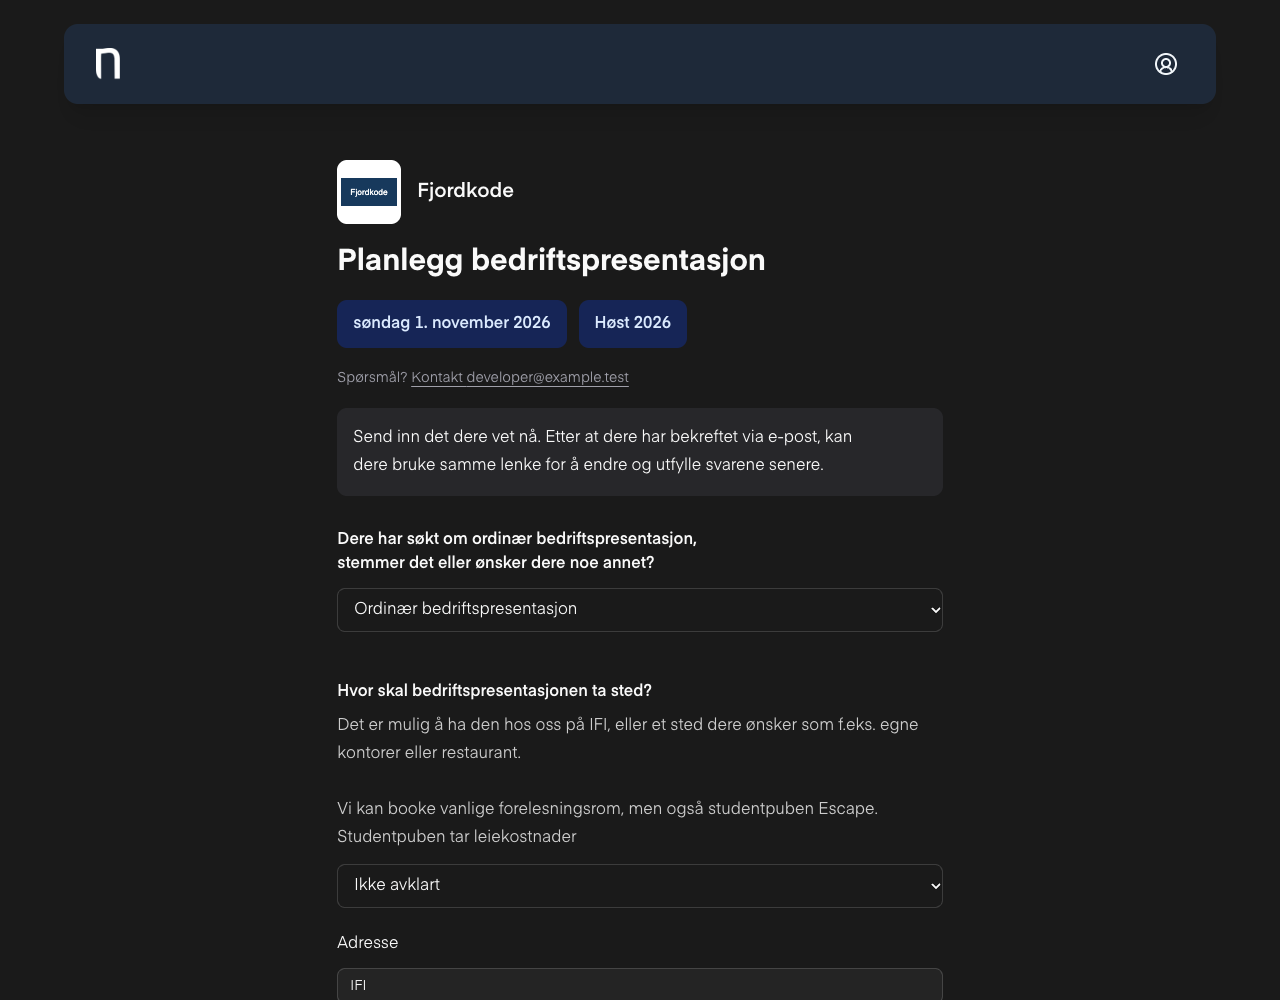
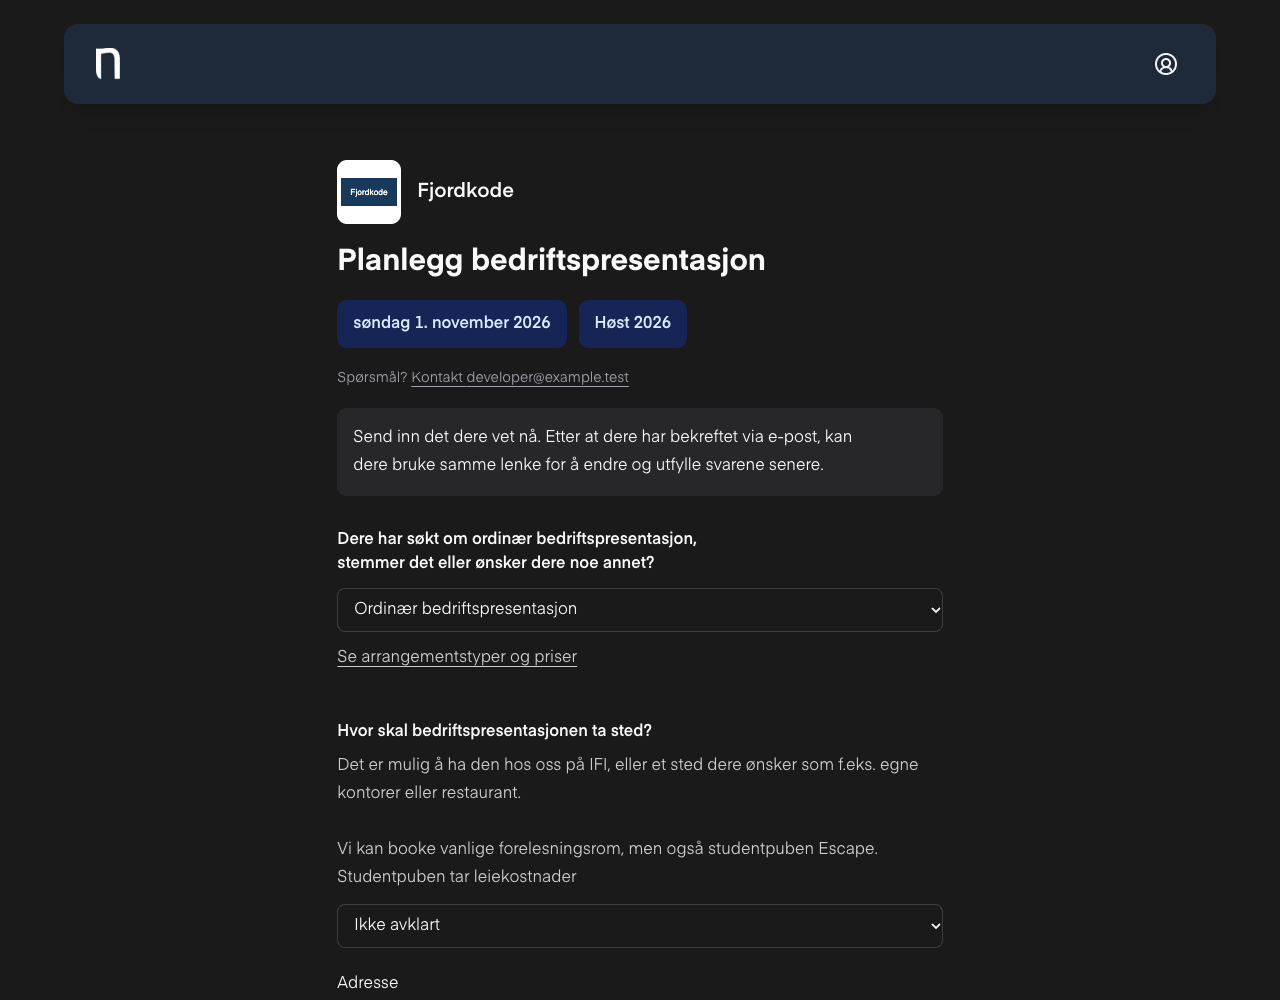
ui: link event type selection to company pricing

Changed region(s): [[0.25, 0.651, 0.7188, 0.992]]

diff --git a/packages/ui/src/components/event-planning-form.tsx b/packages/ui/src/components/event-planning-form.tsx
@@ -147,6 +147,7 @@ export function EventPlanningForm({
 								</option>
 							))}
 						</select>
+
 						<FieldError errors={field.state.meta.errors} />
 					</Field>
 				)}
@@ -190,6 +191,11 @@ export function EventPlanningForm({
 								</option>
 							))}
 						</select>
+						<FieldDescription>
+							<a href="https://ifinavet.no/companies" target="_blank" rel="noopener noreferrer" className="underline underline-offset-4">
+								Se arrangementstyper og priser
+							</a>
+						</FieldDescription>
 						<FieldError errors={field.state.meta.errors} />
 					</Field>
 				)}
